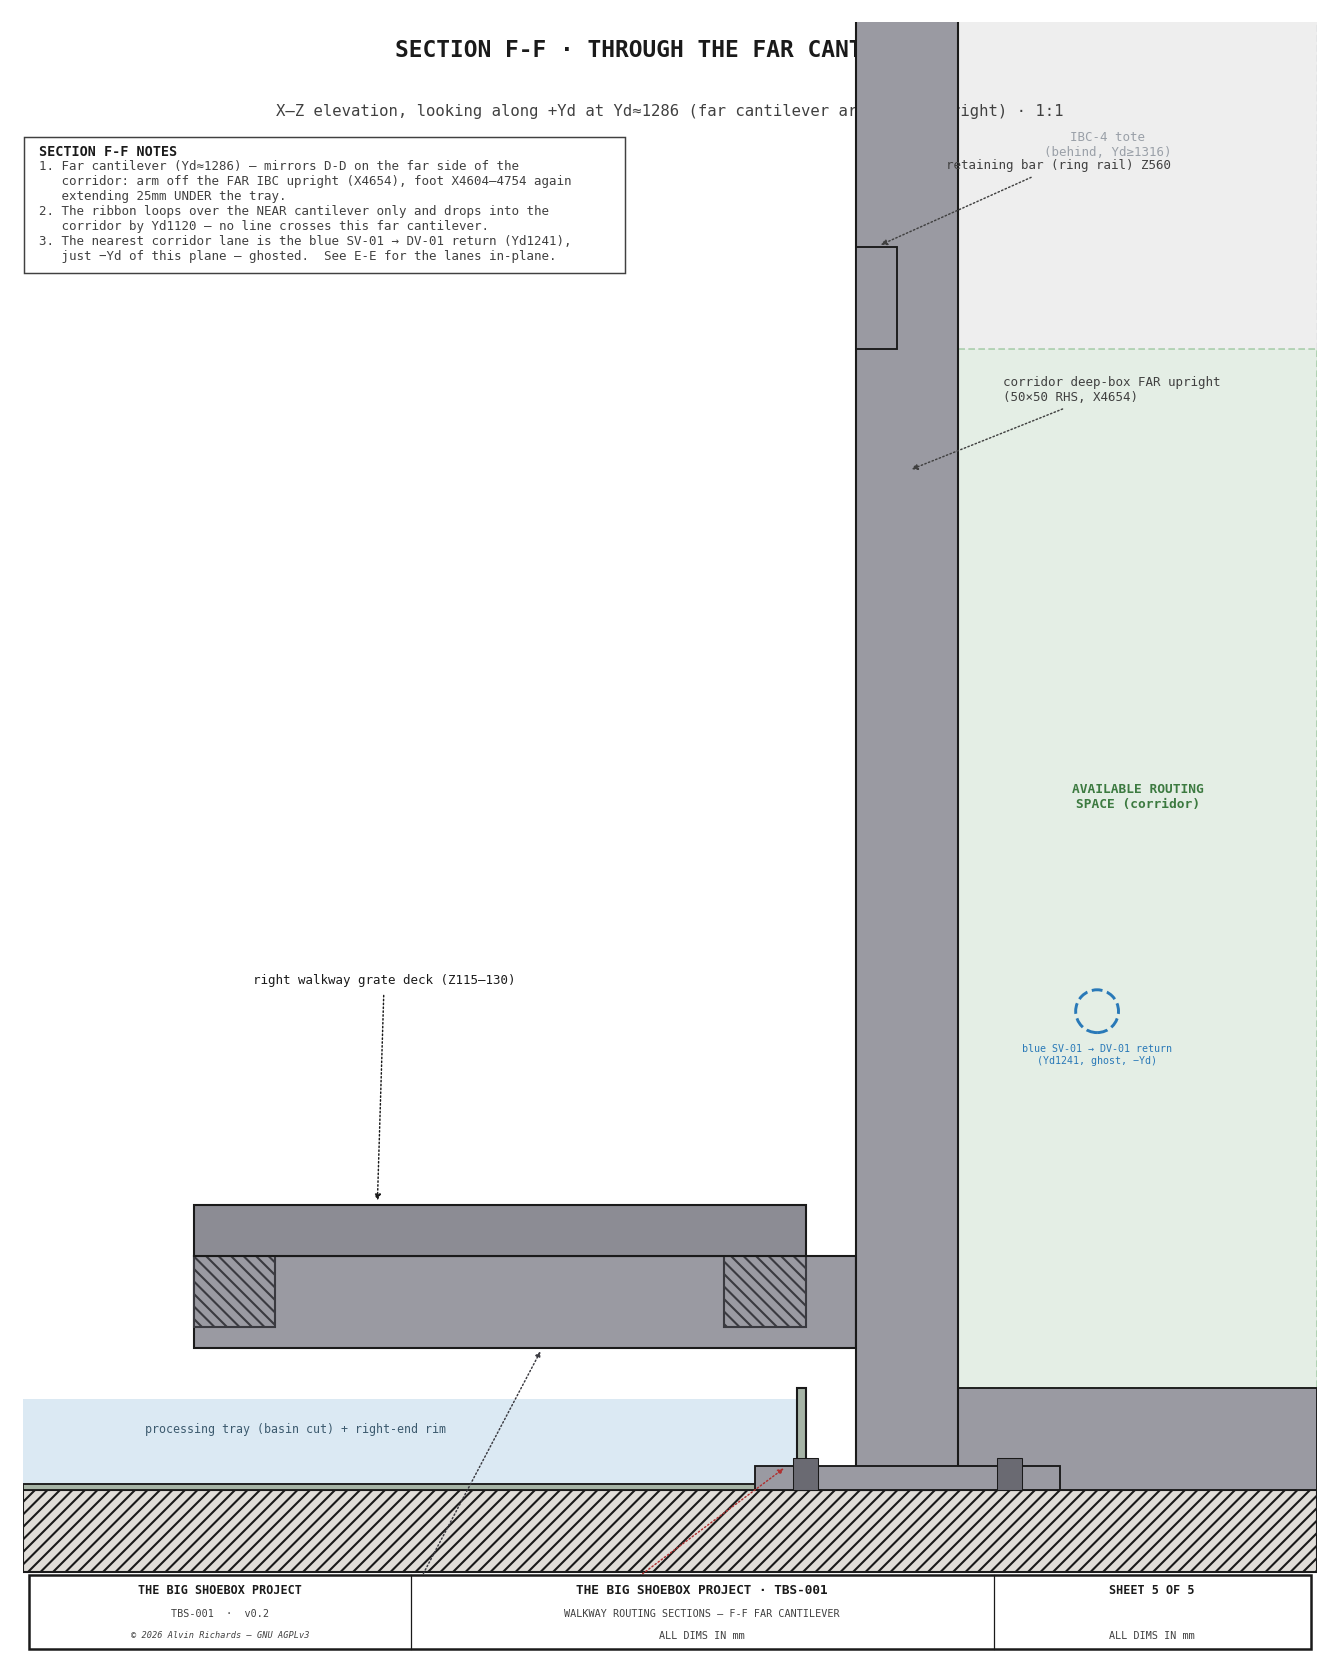
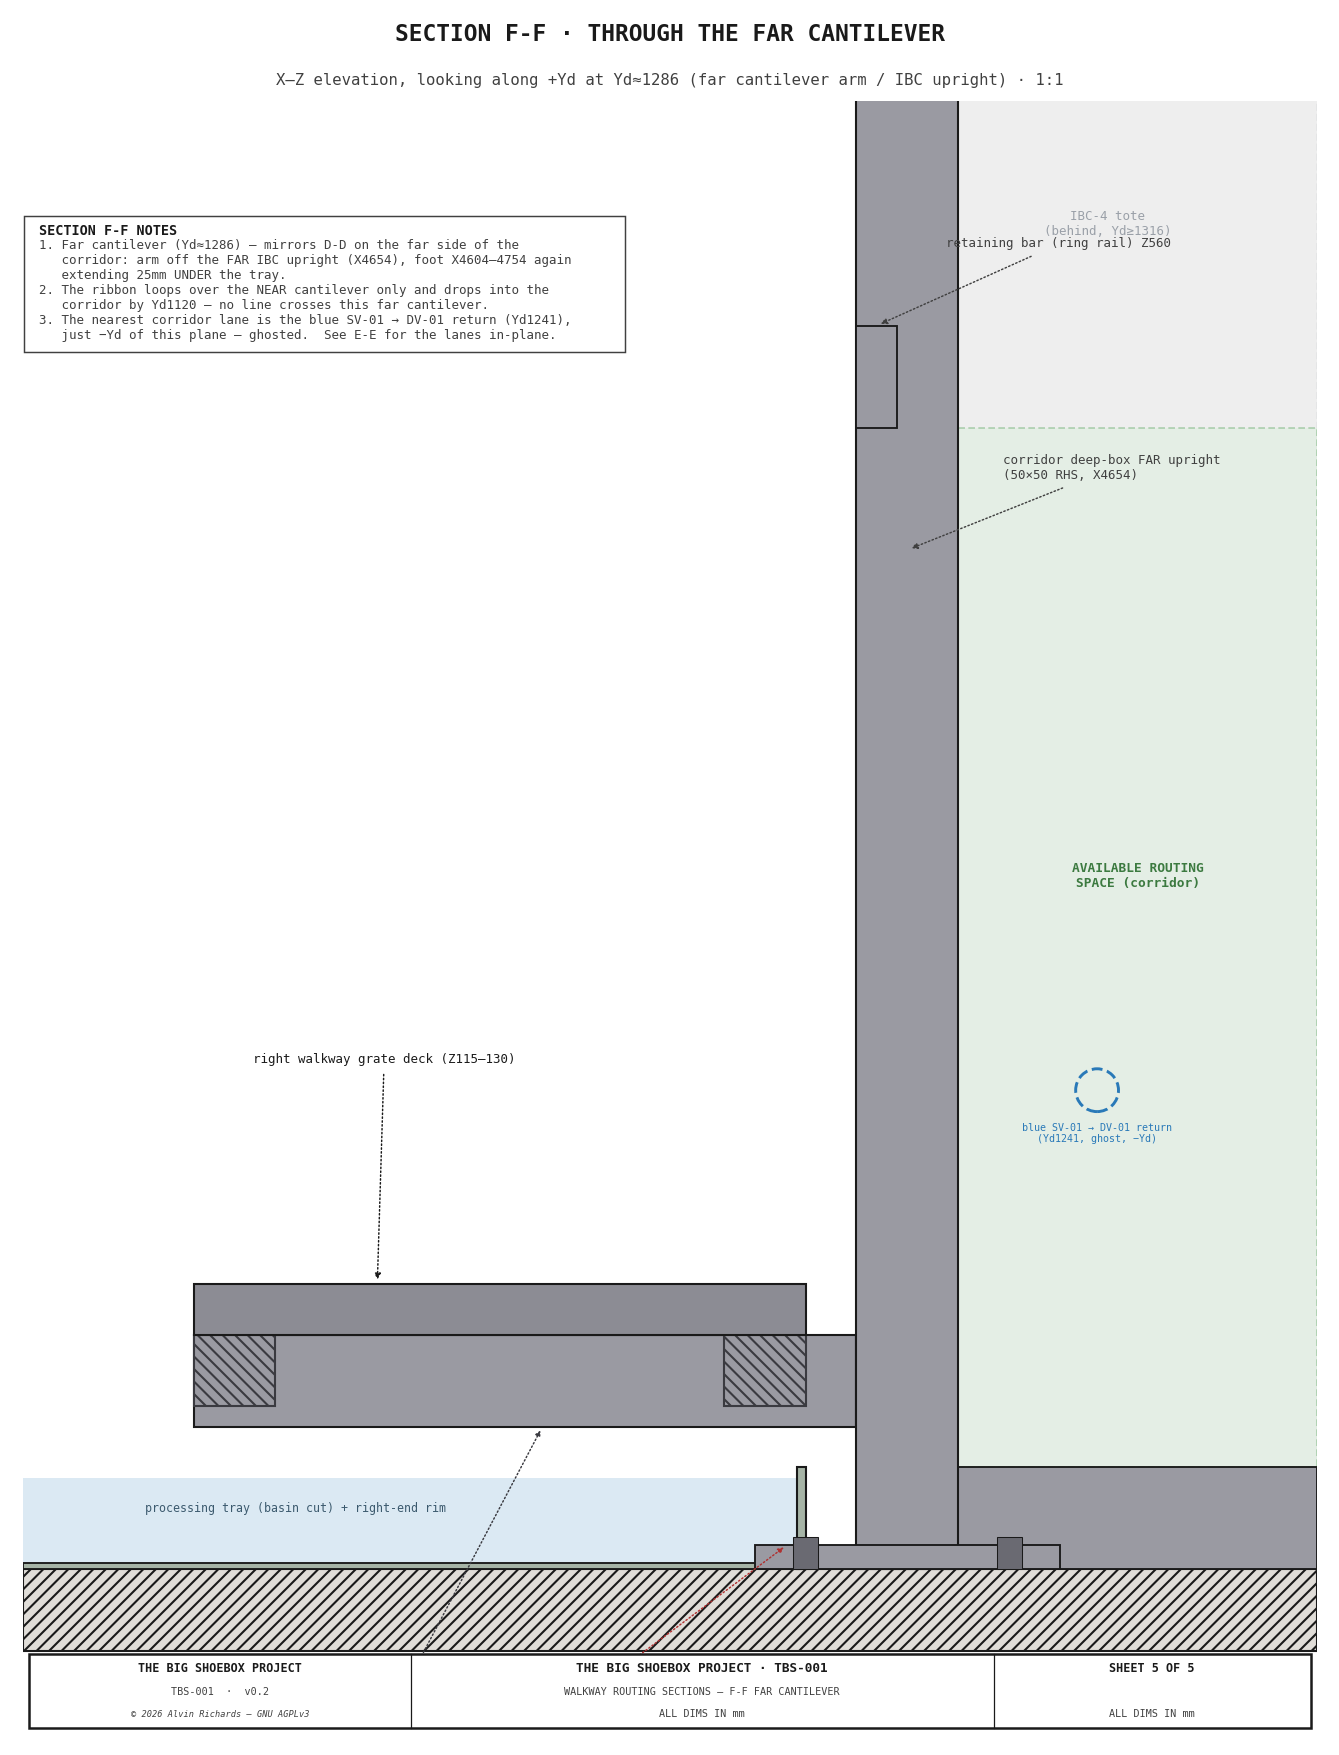
walkway-sections sheet5: lift the title clear of the geometry
Same fix as sheet3: the far upright + IBC ghost rise to the top of the drawing
area, so move the F-F title/subtitle into the figure margin above the axes
(fig.text at y=0.945/0.972) instead of at Z_HI where the steel overlapped them.

diff --git a/src/generators/generate_walkway_sections.py b/src/generators/generate_walkway_sections.py
@@ -534,10 +534,13 @@ def sheet5():
     ax = fig.add_axes([0.07, 0.06, 0.89, 0.87])
     fig.patch.set_facecolor(BG); ax.set_facecolor(BG)
     ax.set_xlim(X_LO, X_HI); ax.set_ylim(Z_LO, Z_HI); ax.set_aspect("equal"); ax.axis("off")
-    ax.text((X_LO + X_HI) / 2, Z_HI - 8, "SECTION F-F · THROUGH THE FAR CANTILEVER",
-            ha="center", va="top", fontsize=11, fontweight="bold", color=C_OUT, **FONT)
-    ax.text((X_LO + X_HI) / 2, Z_HI - 40, "X–Z elevation, looking along +Yd at Yd≈1286 (far cantilever arm / IBC upright) · 1:1",
-            ha="center", va="top", fontsize=7.5, color=C_DIM, **FONT)
+    # Far upright + IBC ghost rise to the top of the drawing area, so place the title/
+    # subtitle in the figure margin ABOVE the axes (axes top = 0.06 + 0.87 = 0.93).
+    _tcx = 0.07 + 0.89 / 2   # horizontal center of the axes in figure coords
+    fig.text(_tcx, 0.972, "SECTION F-F · THROUGH THE FAR CANTILEVER",
+             ha="center", va="top", fontsize=11, fontweight="bold", color=C_OUT, **FONT)
+    fig.text(_tcx, 0.945, "X–Z elevation, looking along +Yd at Yd≈1286 (far cantilever arm / IBC upright) · 1:1",
+             ha="center", va="top", fontsize=7.5, color=C_DIM, **FONT)
 
     _rect(ax, X_LO, -40, X_HI - X_LO, 40, C_FLOOR, lw=1.0, hatch="////", z0=2)                 # floor
     # tray — CUT here too (Yd1286 is inside the tray Yd80-2280): basin + wash water + right rim
